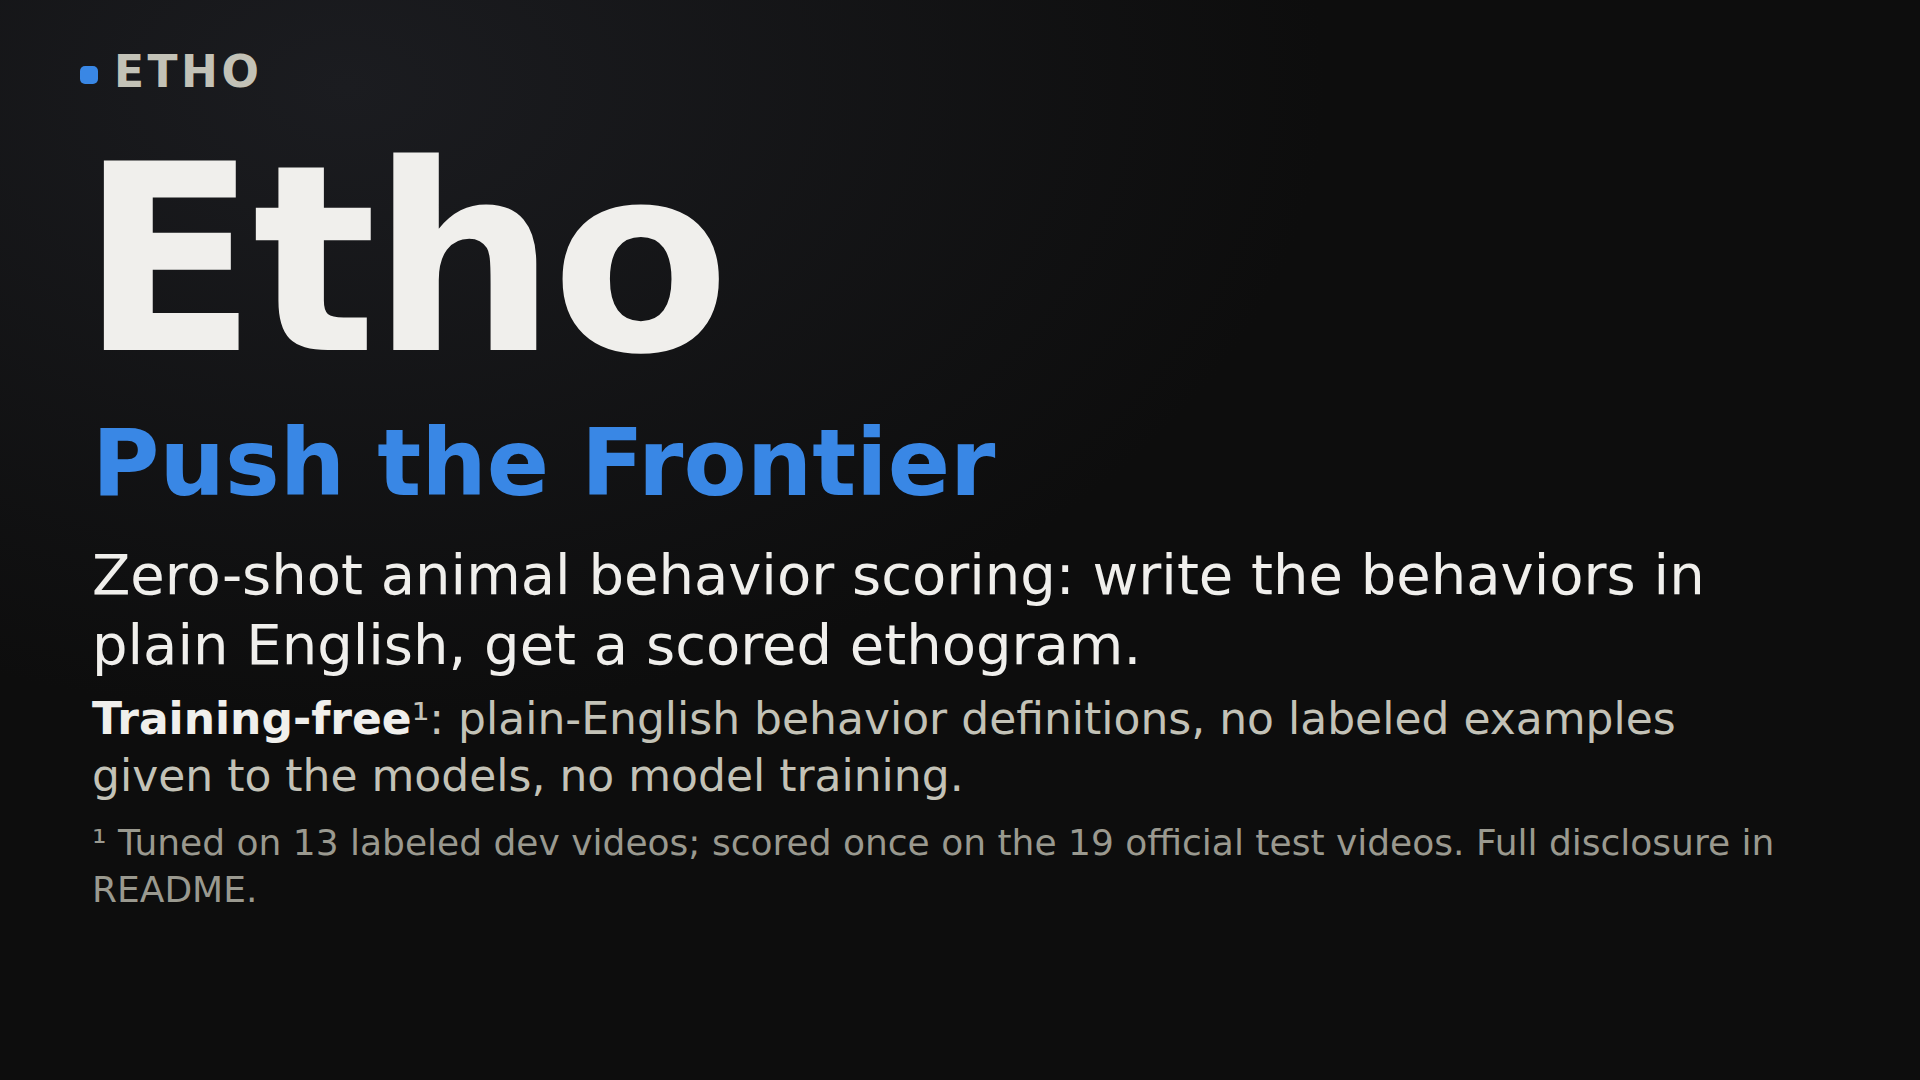
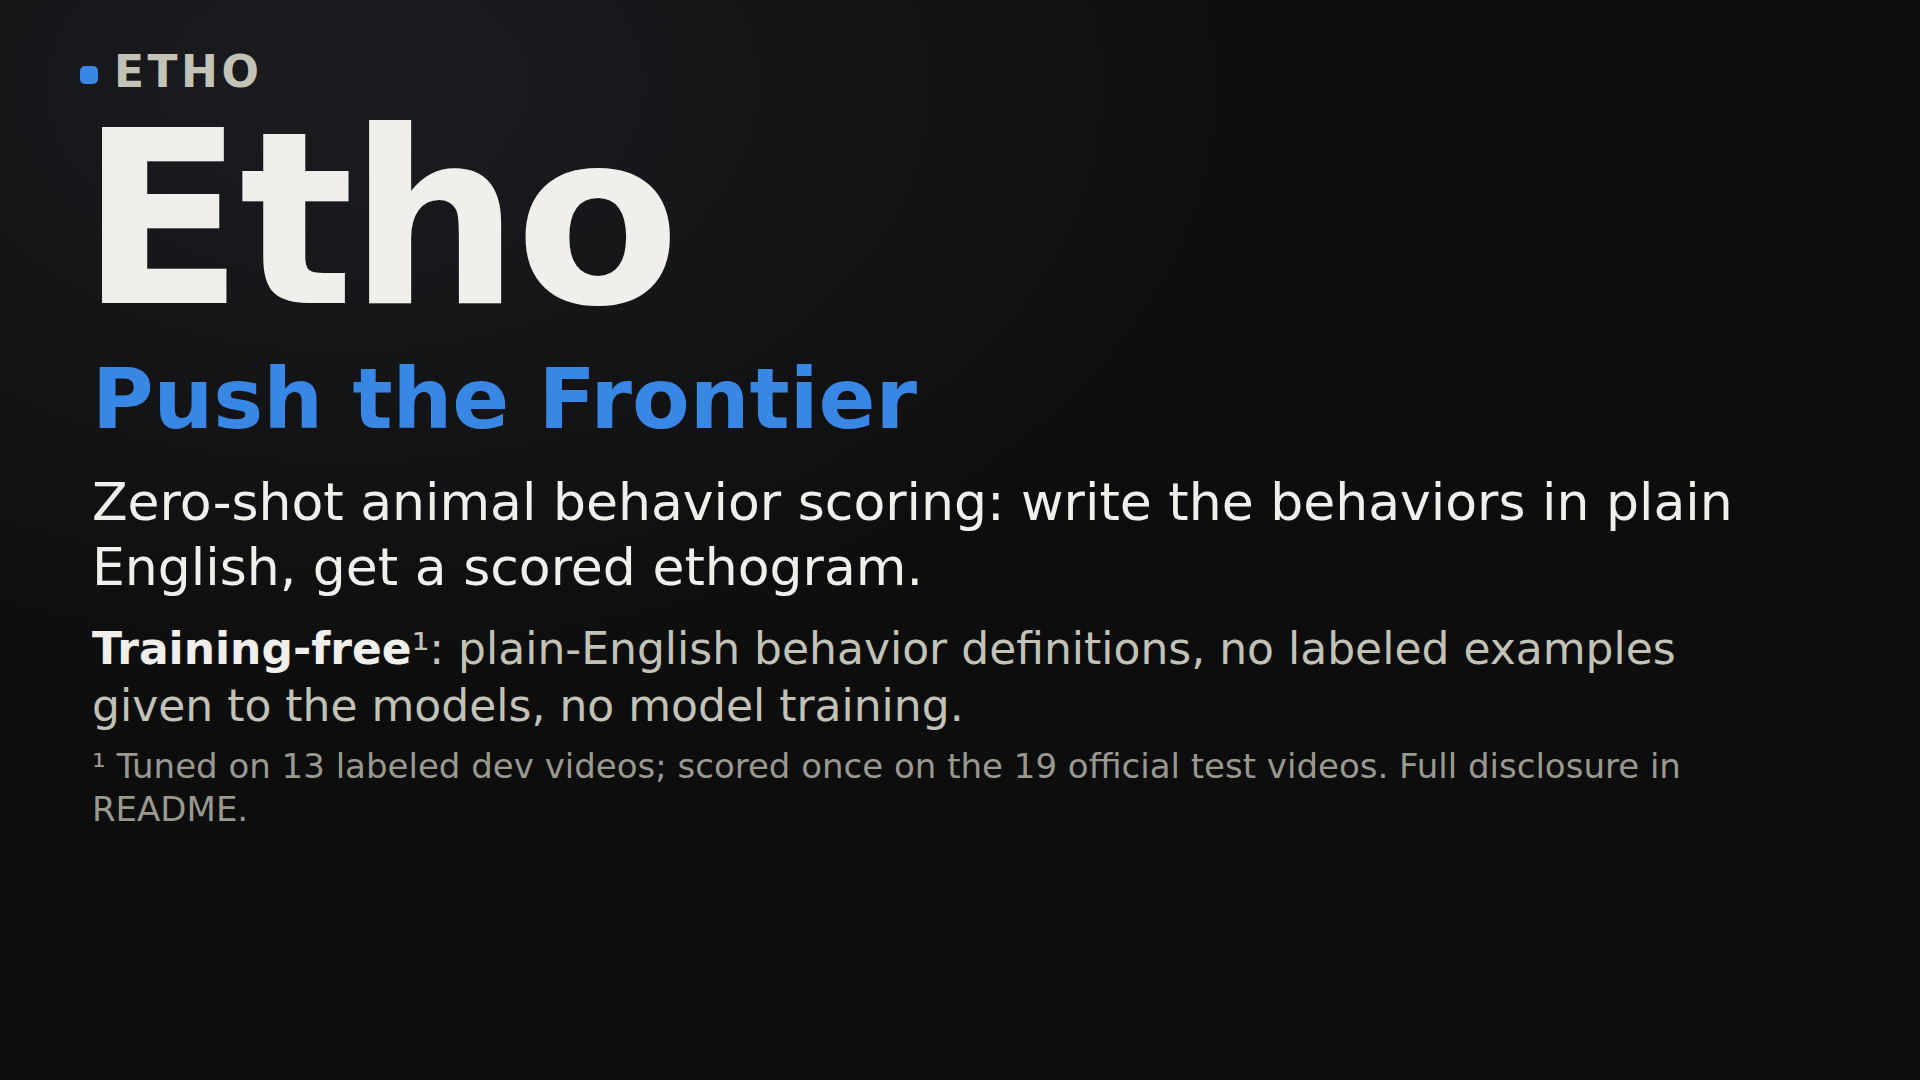
video: keep every card above the caption zone (y<860): title, who, evidence, close, closing, architecture (79% on dark page); caption-zone test; retry truncated Chromium screenshots; re-render docs/video_assets and README GIF (Nov 2 run)
Claude-Session: https://claude.ai/code/session_014u5C9Xa8ndRph4b9XuRXbh

Changed region(s): [[0.0312, 0.0917, 0.9062, 0.55], [0.0312, 0.5806, 0.9375, 0.8556]]

diff --git a/video/cards.py b/video/cards.py
@@ -31,7 +31,7 @@ body{{background:radial-gradient(1400px 900px at 18% 8%,#1b1c20 0%,{C.PAGE} 70%)
 .h1{{font-weight:700;font-size:78px;line-height:1.1}}
 .body{{font-size:48px;line-height:1.3;color:{C.TEXT2}}}
 .muted{{color:{C.MUTED}}}
-.foot{{font-size:36px;line-height:1.3;color:{C.MUTED}}}
+.foot{{font-size:34px;line-height:1.25;color:{C.MUTED}}}
 .sw{{display:inline-block;width:34px;height:34px;border-radius:7px;margin-right:16px;vertical-align:-3px}}
 .tile{{position:absolute;background:{C.SURFACE};border:2px solid {C.LINE};border-radius:26px;padding:30px 40px}}
 sup{{font-size:.55em;vertical-align:.6em}}
@@ -52,19 +52,19 @@ def title_html(N: Numbers) -> str:
     foot = H.escape(N.s("footnote_text"))
     return page(f"""
 <div class=brand><i></i>ETHO</div>
-<div class=abs style='left:80px;top:130px;font-weight:700;font-size:260px;line-height:1;
+<div class=abs style='left:80px;top:100px;font-weight:700;font-size:240px;line-height:1;
 letter-spacing:-.02em'>Etho</div>
-<div class=abs style='left:92px;top:410px;font-weight:700;font-size:92px;color:{C.ACCENT}'>Push the Frontier</div>
-<div class=abs style='left:92px;top:540px;width:1700px;font-size:56px;line-height:1.25;color:{C.TEXT}'>
+<div class=abs style='left:92px;top:350px;font-weight:700;font-size:84px;color:{C.ACCENT}'>Push the Frontier</div>
+<div class=abs style='left:92px;top:470px;width:1700px;font-size:52px;line-height:1.25;color:{C.TEXT}'>
  Zero-shot animal behavior scoring: write the behaviors in plain English, get a scored ethogram.</div>
-<div class=abs style='left:92px;top:690px;width:1700px;font-size:44px;line-height:1.3;color:{C.TEXT2}'>
+<div class=abs style='left:92px;top:620px;width:1700px;font-size:44px;line-height:1.3;color:{C.TEXT2}'>
  <b style='color:{C.TEXT}'>Training-free</b>&sup1;: {head}</div>
-<div class=abs style='left:92px;top:820px;width:1700px' ><div class=foot>&sup1; {foot}</div></div>
+<div class=abs style='left:92px;top:745px;width:1700px' ><div class=foot>&sup1; {foot}</div></div>
 """)
 
 
 # ------------------------------------------------------------------------------------------------------ who
-WHO_ROWS = dict(x0=360, x1=1820, y0=330, row_h=84, gap=44)
+WHO_ROWS = dict(x0=360, x1=1820, y0=320, row_h=80, gap=36)
 
 
 def who_rows() -> draw.Rows:
@@ -90,7 +90,7 @@ def who_html(N: Numbers) -> str:
 {labels}{ticks}
 <div class=abs style='left:80px;top:{r.bottom + 100}px;width:1760px;font-size:44px;color:{C.TEXT}'>
  Etho needs one sentence per behavior.</div>
-<div class=abs style='left:80px;top:{r.bottom + 170}px;font-size:36px;color:{C.MUTED}'>{H.escape(C.CREDIT_CARD)}</div>
+<div class=abs style='left:80px;top:{r.bottom + 160}px;font-size:36px;color:{C.MUTED}'>{H.escape(C.CREDIT_CARD)}</div>
 """)
 
 
@@ -143,18 +143,18 @@ def evidence_html(N: Numbers) -> str:
     sub = f"font-size:44px;color:{C.TEXT2};line-height:1.25"
     return page(f"""
 <div class=brand style='top:30px'><i></i>ETHO</div>
-<div class=tile style='left:60px;top:110px;width:1190px;height:390px'>
+<div class=tile style='left:60px;top:96px;width:1190px;height:360px;padding-top:22px'>
  <div style='{lab}'>Etho, macro F1, no training&sup1;</div>
- <div style='display:flex;align-items:center;gap:30px;margin-top:30px'>
+ <div style='display:flex;align-items:center;gap:30px;margin-top:20px'>
   <div style='font-size:200px;font-weight:700;line-height:1;color:{C.ACCENT}'>{N.s('macro_f1')}</div>
   <div style='flex:1'>{chips}</div></div></div>
-<div class=tile style='left:1280px;top:110px;width:580px;height:390px'>
+<div class=tile style='left:1280px;top:96px;width:580px;height:360px;padding-top:22px'>
  <div style='{lab}'>Supervised, trained on labeled data and pose keypoints</div>
  <div style='font-size:86px;font-weight:700;line-height:1.1;margin-top:16px;color:{C.MUTED};
 white-space:nowrap'>{N.s('sup_lo')}&ndash;{N.s('sup_hi')}</div>
  <div style='{sub};color:{C.MUTED};white-space:nowrap'>{N.s('sup_1dconv')} &middot; {N.s('sup_taskprog')} &middot;
 {N.s('sup_mabe_top1')}</div></div>
-<div class=tile style='left:60px;top:525px;width:1800px;height:310px;display:flex;padding:26px 20px'>
+<div class=tile style='left:60px;top:472px;width:1800px;height:316px;display:flex;padding:20px 20px'>
  <div style='{col}'><div style='{lab}'>Etho speed</div><div style='{big}'>{N.s('speed_pooled')}&times;</div>
   <div style='{sub}'>real time (worst {N.s('speed_worst')}&times;)</div></div>
  <div style='{col}'><div style='{lab}'>Manual scoring takes</div>
@@ -163,8 +163,8 @@ white-space:nowrap'>{N.s('sup_lo')}&ndash;{N.s('sup_hi')}</div>
   <div style='{sub}'>the video's length (Segalin et al. 2021)</div></div>
  <div style='{col}'><div style='{lab}'>Model cost</div><div style='{big}'>{N.s('cost_per_hour')}</div>
   <div style='{sub}'>per hour of video</div></div></div>
-<div class=abs style='left:60px;top:852px;width:1800px;font-size:34px;color:{C.MUTED};
-line-height:1.25'>&sup1; {foot}</div>
+<div class=abs style='left:60px;top:804px;width:1800px;font-size:34px;color:{C.MUTED};
+line-height:1.2'>&sup1; {foot}</div>
 """)
 
 
@@ -183,14 +183,28 @@ def close_html(N: Numbers) -> str:
 <div class=abs style='left:80px;top:215px;width:1760px;display:flex;gap:40px'>
  {chip('SAM 3.1', 'tracks both animals')}{chip('Muse Spark', 'plans, writes the rules')}
  {chip('Muse Spark Open', 'checks borderline moments')}</div>
-<div class=abs style='left:80px;top:575px;width:1760px;font-size:76px;font-weight:700;line-height:1.15'>
+<div class=abs style='left:80px;top:450px;width:1760px;font-size:76px;font-weight:700;line-height:1.15'>
  For every lab that still scores behavior by hand.</div>
-<div class=abs style='left:80px;top:765px;white-space:nowrap'>
+<div class=abs style='left:80px;top:650px;white-space:nowrap'>
  <span style='{ph}'>REPO: [placeholder: public repo URL]</span><span
  style='{ph}'>LIVE: [placeholder: live app URL]</span></div>
-<div class=abs style='left:80px;top:875px;font-size:36px;color:{C.MUTED}'>Open source, Apache-2.0. Benchmark data:
+<div class=abs style='left:80px;top:790px;font-size:36px;color:{C.MUTED}'>Open source, Apache-2.0. Benchmark data:
  {H.escape(C.CREDIT_CARD)}.</div>
 """)
+
+
+# ------------------------------------------------------------------------------------------------ architecture
+ARCH_SCALE = 0.79    # 1080 * 0.79 = 853 px: the diagram's bottom edge stays above the caption zone (860)
+
+
+def architecture_html() -> str:
+    """docs/architecture.svg (1920x1080, white) scaled to sit on the dark page with its bottom above y=860."""
+    svg = re.sub(r"<\?xml[^>]*\?>", "", (C.ROOT / "docs" / "architecture.svg").read_text(encoding="utf-8"))
+    w, h = int(1920 * ARCH_SCALE), int(1080 * ARCH_SCALE)
+    return (f"<!doctype html><meta charset=utf-8><body style='margin:0;width:1920px;height:1080px;background:{C.PAGE}'>"
+            f"<div style='position:absolute;left:{(1920 - w) // 2}px;top:0;width:{w}px;height:{h}px'>"
+            f"<div style='transform:scale({ARCH_SCALE});transform-origin:0 0;width:1920px;height:1080px'>{svg}</div>"
+            f"</div></body>")
 
 
 # ------------------------------------------------------------------------------------------------ model stack
@@ -219,12 +233,12 @@ def closing_html(N: Numbers) -> str:
           "font-size:48px;color:{c}").format(c=C.GOLD)
     return page(f"""
 <div class=brand><i></i>ETHO</div>
-<div class=abs style='left:80px;top:220px;width:1760px;font-size:96px;font-weight:700;line-height:1.12'>
+<div class=abs style='left:80px;top:190px;width:1760px;font-size:96px;font-weight:700;line-height:1.12'>
  For every lab that still scores behavior by hand.</div>
-<div class=abs style='left:80px;top:500px;font-size:60px;color:{C.TEXT2}'>Open source. Try it live.</div>
-<div class=abs style='left:80px;top:610px'><span style='{ph}'>REPO: [placeholder: public repo URL]</span></div>
-<div class=abs style='left:80px;top:720px'><span style='{ph}'>LIVE: [placeholder: live app URL]</span></div>
-<div class=abs style='left:80px;top:840px;font-size:36px;color:{C.MUTED}'>Apache-2.0. Benchmark data:
+<div class=abs style='left:80px;top:460px;font-size:60px;color:{C.TEXT2}'>Open source. Try it live.</div>
+<div class=abs style='left:80px;top:560px'><span style='{ph}'>REPO: [placeholder: public repo URL]</span></div>
+<div class=abs style='left:80px;top:685px'><span style='{ph}'>LIVE: [placeholder: live app URL]</span></div>
+<div class=abs style='left:80px;top:800px;font-size:36px;color:{C.MUTED}'>Apache-2.0. Benchmark data:
  {H.escape(C.CREDIT_CARD)}.</div>
 """)
 

diff --git a/video/tests/test_caption_zone.py b/video/tests/test_caption_zone.py
@@ -1,0 +1,76 @@
+"""Burned-in captions (52 px, bottom safe area) must never cover card content: nothing below y=860 on any card.
+
+Check: render each card and look at the strip y=860..1079. A pixel row "has content" if its luminance range
+(max - min across the 1920 px) exceeds RANGE_THRESHOLD. The page background is a smooth radial gradient from #1b1c20
+to #0d0d0d, so its row range is at most about 14 levels; the dimmest text we use (#9a998f, ~153) against it differs by
+more than 110, and even a faint anti-aliased glyph edge differs by more than 40. 40 is therefore above the gradient
+and below any text, border or panel edge. A uniformly bright row (e.g. a white band) has no range, so rows whose
+maximum exceeds 100 also count (the background never exceeds 27).
+"""
+import cv2
+import numpy as np
+import pytest
+
+from video import cards
+from video import common as C
+from video.numbers import Numbers
+
+SAFE_BOTTOM = 860
+RANGE_THRESHOLD = 40
+BRIGHT_THRESHOLD = 100   # a uniform bright row (white band, panel edge) has no range but is not background (max 27)
+
+pytestmark = pytest.mark.skipif(not C.have_render_tools(), reason="needs Chromium and ffmpeg")
+
+
+def content_below(png, y0: int = SAFE_BOTTOM) -> list[int]:
+    g = cv2.imread(str(png), cv2.IMREAD_GRAYSCALE).astype(int)
+    assert g.shape == (C.H, C.W)
+    strip = g[y0:]
+    bad = (strip.max(axis=1) - strip.min(axis=1) > RANGE_THRESHOLD) | (strip.max(axis=1) > BRIGHT_THRESHOLD)
+    return [y0 + int(i) for i in np.flatnonzero(bad)]
+
+
+@pytest.fixture(scope="module")
+def N():
+    return Numbers()
+
+
+@pytest.mark.parametrize("name", list(cards.CARDS))
+def test_card_leaves_caption_zone_empty(name, N, tmp_path):
+    png = C.html_to_png(cards.CARDS[name](N), tmp_path / f"{name}.png")
+    assert content_below(png) == [], f"{name}: content in the caption zone"
+
+
+def test_who_card_leaves_caption_zone_empty(N, tmp_path):
+    cards.who_png(N, tmp_path / "who.png")
+    assert content_below(tmp_path / "who.png") == []
+
+
+def test_architecture_diagram_leaves_caption_zone_empty(tmp_path):
+    png = C.html_to_png(cards.architecture_html(), tmp_path / "arch.png")
+    assert content_below(png) == []
+
+
+def test_badge_sits_above_caption_zone():
+    from video import anim
+    assert 132 + 190 < SAFE_BOTTOM
+    assert anim.BADGE_AT >= 0      # the badge is blitted at y=132 (render_results_frame), 190 px tall
+
+
+def test_check_detects_text(tmp_path):
+    """The detector is not vacuous: text drawn in the zone is found."""
+    html = ("<body style='margin:0;background:#0d0d0d'><div style='position:absolute;top:900px;left:100px;"
+            "color:#9a998f;font-size:34px'>footnote</div>")
+    png = C.html_to_png(html, tmp_path / "t.png")
+    assert content_below(png)
+    assert np.all(np.array(content_below(png)) >= 900)
+
+
+def test_truncated_screenshot_detector(tmp_path):
+    img = np.full((1080, 1920), 13, np.uint8)
+    img[1017:] = 255
+    cv2.imwrite(str(tmp_path / "a.png"), img)
+    assert C._truncated(tmp_path / "a.png", False)
+    img[:] = 255
+    cv2.imwrite(str(tmp_path / "b.png"), img)
+    assert not C._truncated(tmp_path / "b.png", False)

diff --git a/video/common.py b/video/common.py
@@ -65,6 +65,16 @@ def run(cmd: list[str], **kw) -> subprocess.CompletedProcess:
     return subprocess.run(cmd, check=True, capture_output=True, text=True, **kw)
 
 
+def _truncated(png: Path, transparent: bool) -> bool:
+    """Headless Chromium occasionally paints only the top ~1017 px and leaves a white band at the bottom (seen about
+    one run in three on the who card). Detect it: the last row is pure white while the row 64 px higher is not."""
+    if transparent:
+        return False
+    import cv2
+    g = cv2.imread(str(png), cv2.IMREAD_GRAYSCALE)
+    return g is not None and g.shape[0] > 128 and bool((g[-1] == 255).all()) and not bool((g[-64] == 255).all())
+
+
 def html_to_png(html: str, out: Path, w: int = W, h: int = H, transparent: bool = False) -> Path:
     """Render an HTML string to a PNG with headless Chromium (no Python imaging library needed)."""
     out.parent.mkdir(parents=True, exist_ok=True)
@@ -76,6 +86,11 @@ def html_to_png(html: str, out: Path, w: int = W, h: int = H, transparent: bool 
     if transparent:
         cmd.append("--default-background-color=00000000")
     cmd.append(src.as_uri())
-    subprocess.run(cmd, check=True, capture_output=True, timeout=90)
+    for _ in range(4):
+        subprocess.run(cmd, check=True, capture_output=True, timeout=90)
+        if not _truncated(out, transparent):
+            break
+    else:
+        raise RuntimeError(f"headless Chromium kept truncating the screenshot: {out}")
     src.unlink(missing_ok=True)
     return out

diff --git a/video/assemble.py b/video/assemble.py
@@ -143,9 +143,8 @@ def resolve(beat: T.Beat, label: str, ref: str, dur: float) -> Piece:
         return Piece(beat.key, label, C.OUT / "results_beat.mp4", dur, True, "results_beat.mp4")
     if ref == "arch":
         png = C.CARDS / "architecture.png"
-        svg = (C.ROOT / "docs" / "architecture.svg").read_text(encoding="utf-8")
-        svg = re.sub(r"<\?xml[^>]*\?>", "", svg)
-        C.html_to_png(f"<!doctype html><meta charset=utf-8><body style='margin:0;background:#fff'>{svg}</body>", png)
+        from video.cards import architecture_html
+        C.html_to_png(architecture_html(), png)
         return Piece(beat.key, label, png, dur, True, "docs/architecture.svg (rendered)")
     raise KeyError(ref)
 
